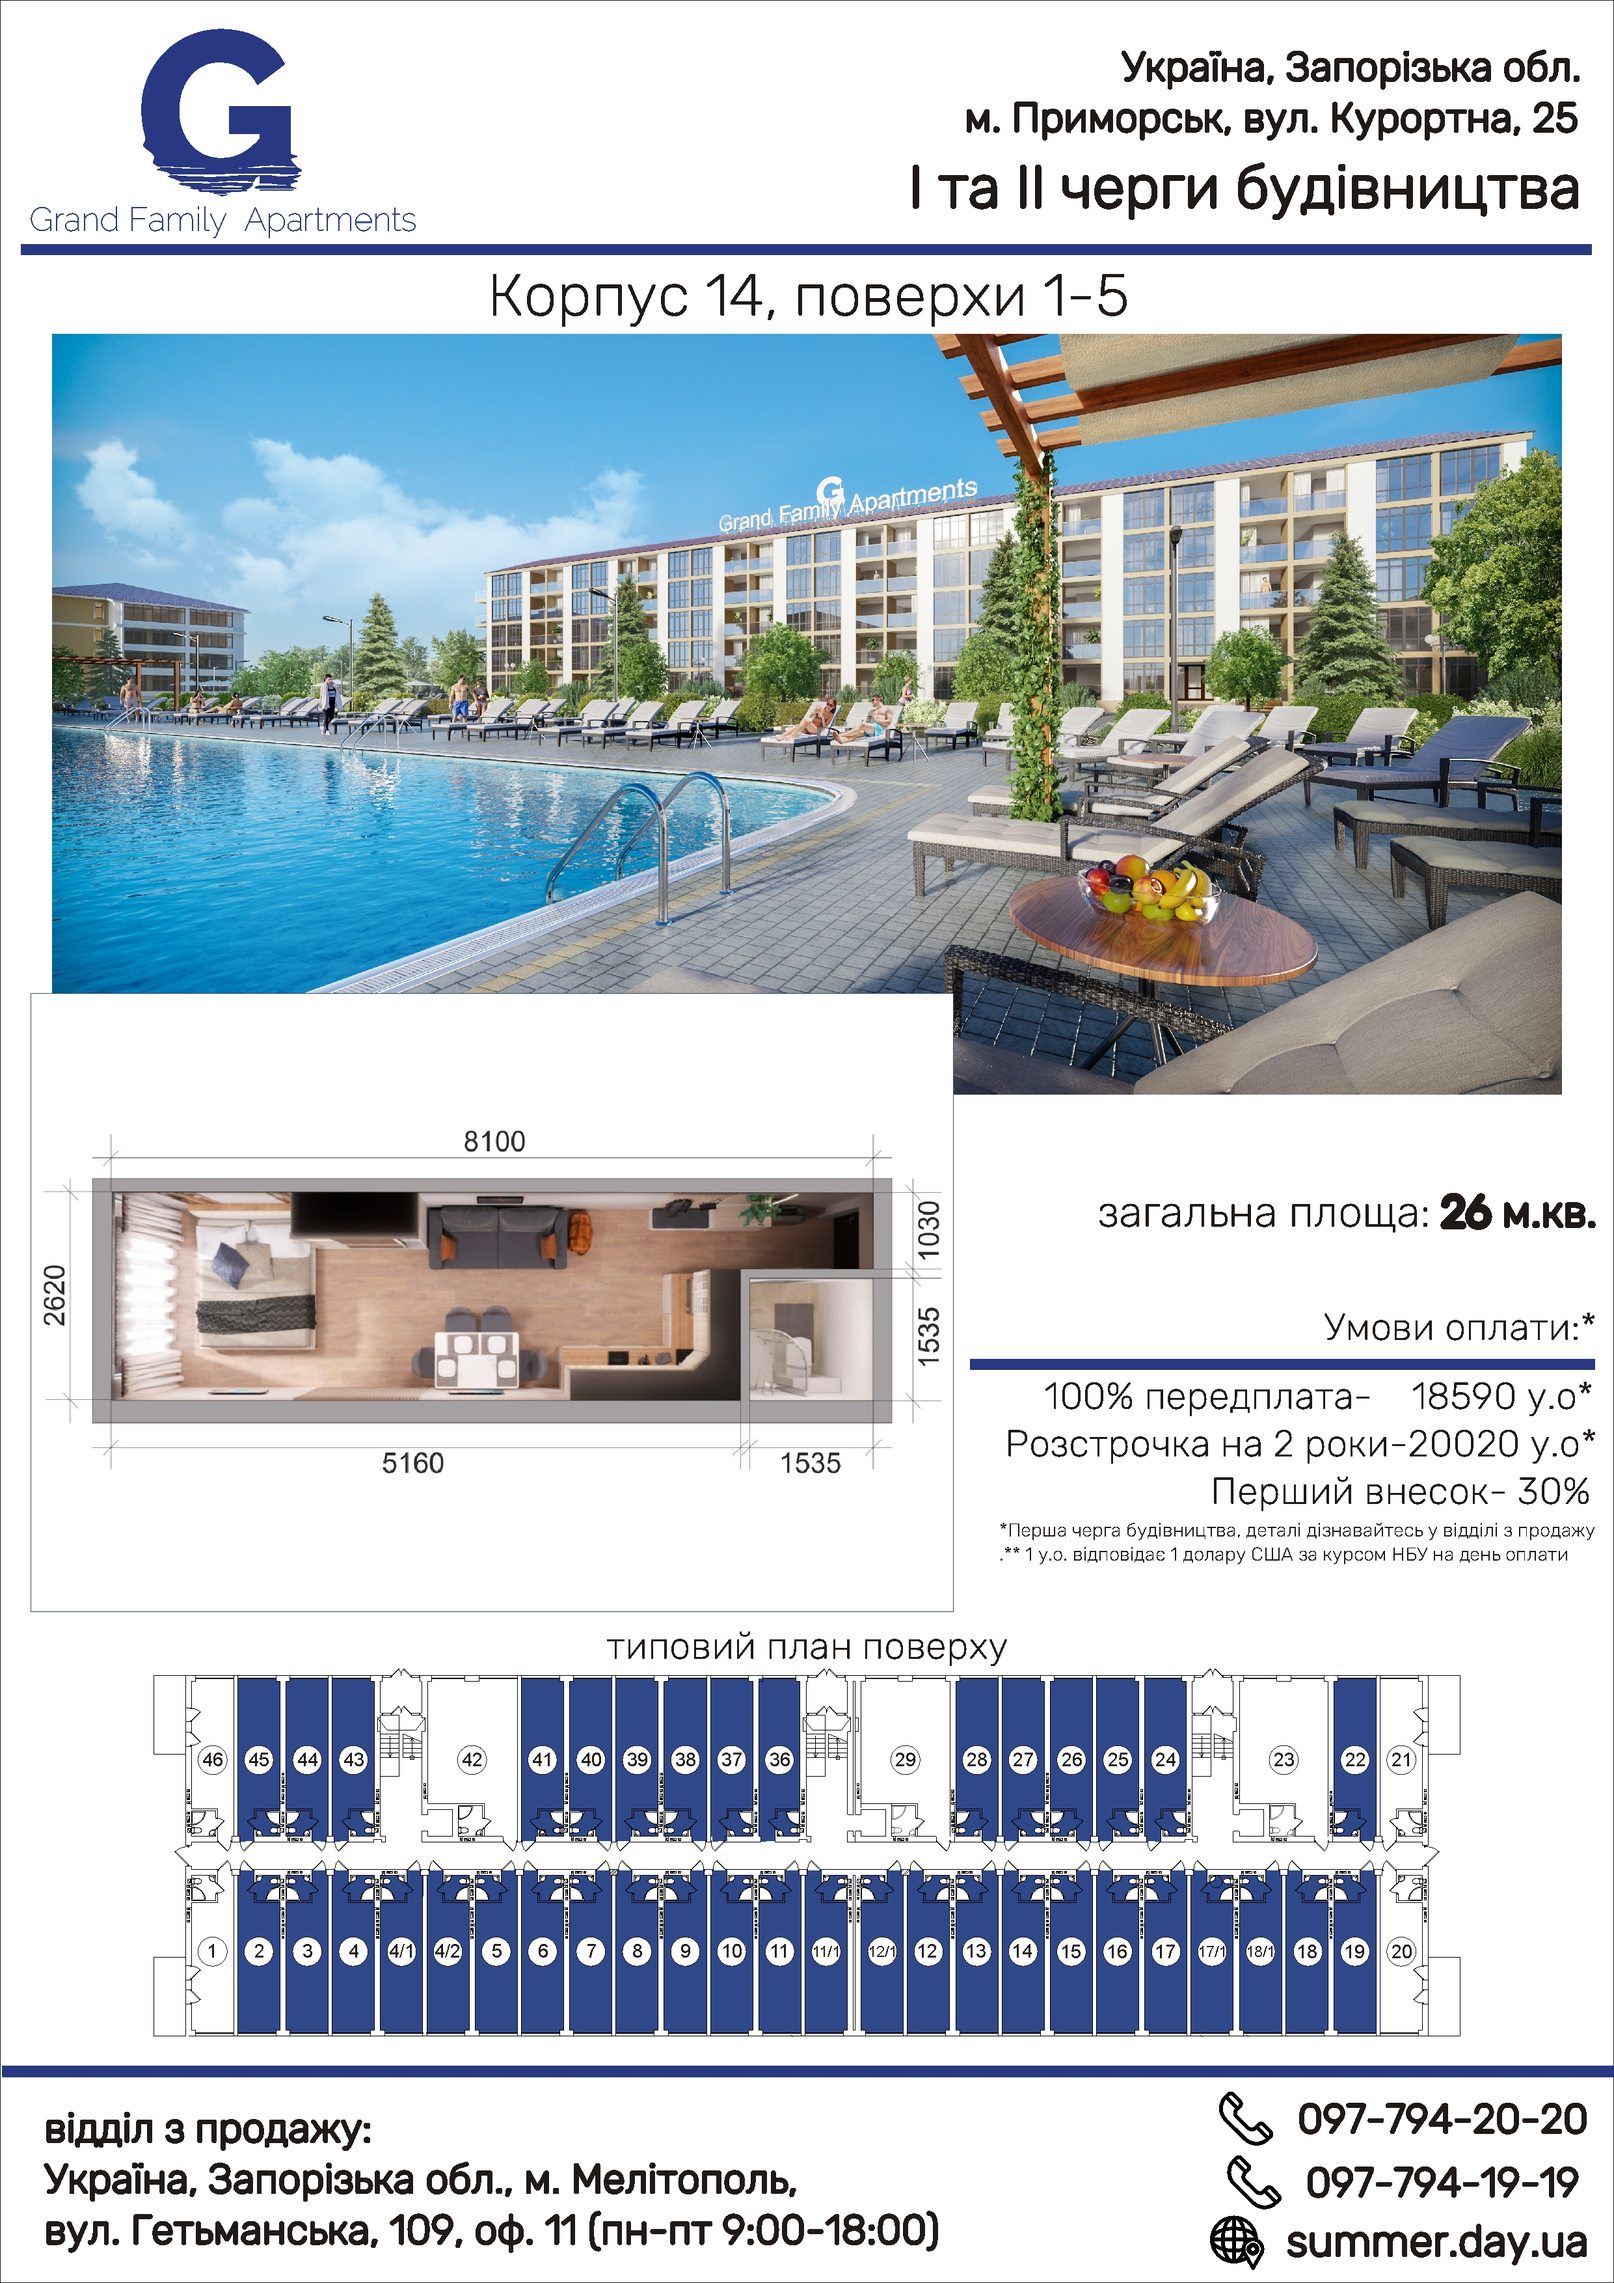
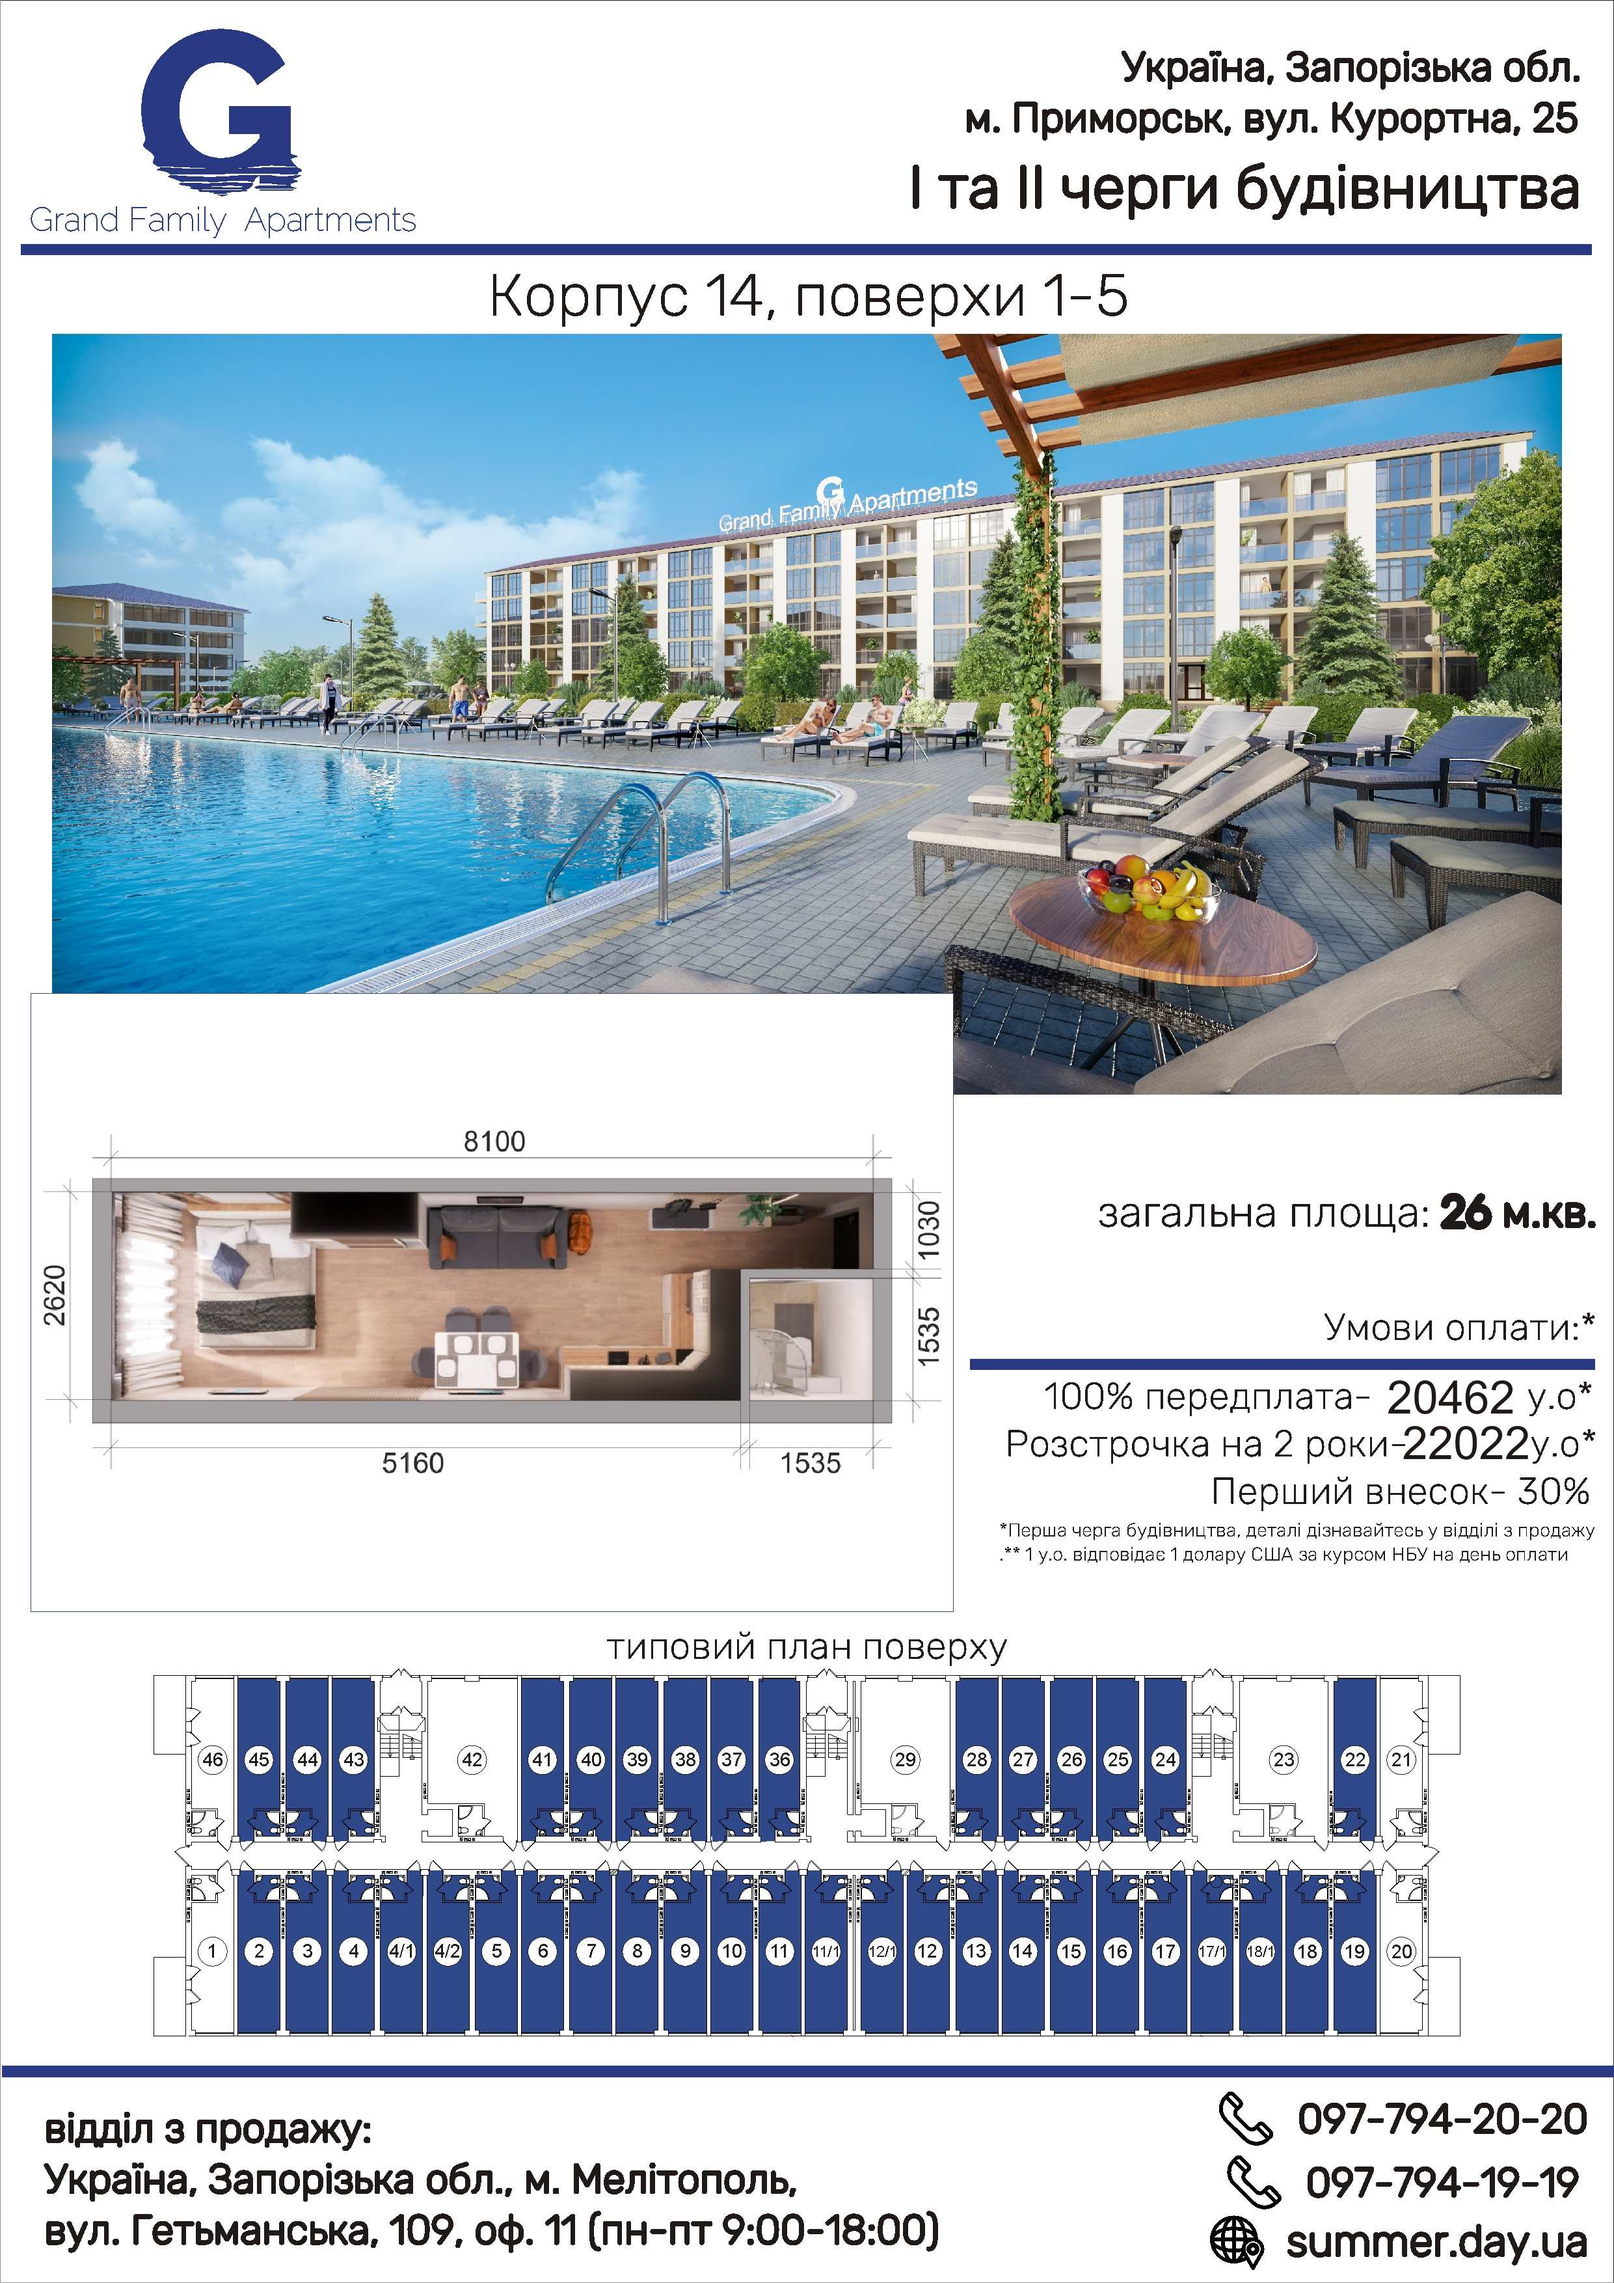
new prices

diff --git a/project.php b/project.php
@@ -33,14 +33,14 @@
                         <div class="description">
                             <div class="text">
                                 <p><strong>Без ремонту:</strong></p>
-                                <p>Оплата 100%- 18590 у.о*</p>
-                                <p>Розстрочка до 3-х років від забудовника- 20020 у.о.*</p>
+                                <p>Оплата 100%- 20 462 у.о*</p>
+                                <p>Розстрочка до 2-х років від забудовника- 22 022 у.о.*</p>
                                 <p>перший внесок- 30%</p>
                             </div>
                             <div class="text">
                                 <p><strong>З ремонтом:</strong></p>
-                                <p>Оплата 100%-  23 452 у.о.*</p>
-                                <p>Розстрочка до 3-х років від забудовника- 24 882 у.о.*</p>
+                                <p>Оплата 100%-  25 792 у.о.*</p>
+                                <p>Розстрочка до 2-х років від забудовника- 27 378 у.о.*</p>
                                 <p>перший внесок- 30%</p>
                                 <p><span class="small">*у.о.- долар США за курсом НБУ</span></p>
                             </div>
@@ -57,14 +57,14 @@
                         <div class="description">
                             <div class="text">
                                 <p><strong>Без ремонту:</strong></p>
-                                <p>Оплата 100%- 35 035 у.о*</p>
-                                <p>Розстрочка до 3-х років від забудовника- 37 730 у.о.*</p>
+                                <p>Оплата 100%- 38 563 у.о*</p>
+                                <p>Розстрочка до 2-х років від забудовника- 41 503 у.о.*</p>
                                 <p>перший внесок- 30%</p>
                             </div>
                             <div class="text">
                                 <p><strong>З ремонтом:</strong></p>
-                                <p>Оплата 100%-  44 198 у.о.*</p>
-                                <p>Розстрочка до 3-х років від забудовника- 46 893 у.о.*</p>
+                                <p>Оплата 100%-  48 605 у.о.*</p>
+                                <p>Розстрочка до 2-х років від забудовника- 51 597 у.о.*</p>
                                 <p>перший внесок- 30%</p>
                                 <p><span class="small">*у.о.- долар США за курсом НБУ</span></p>
                             </div>
